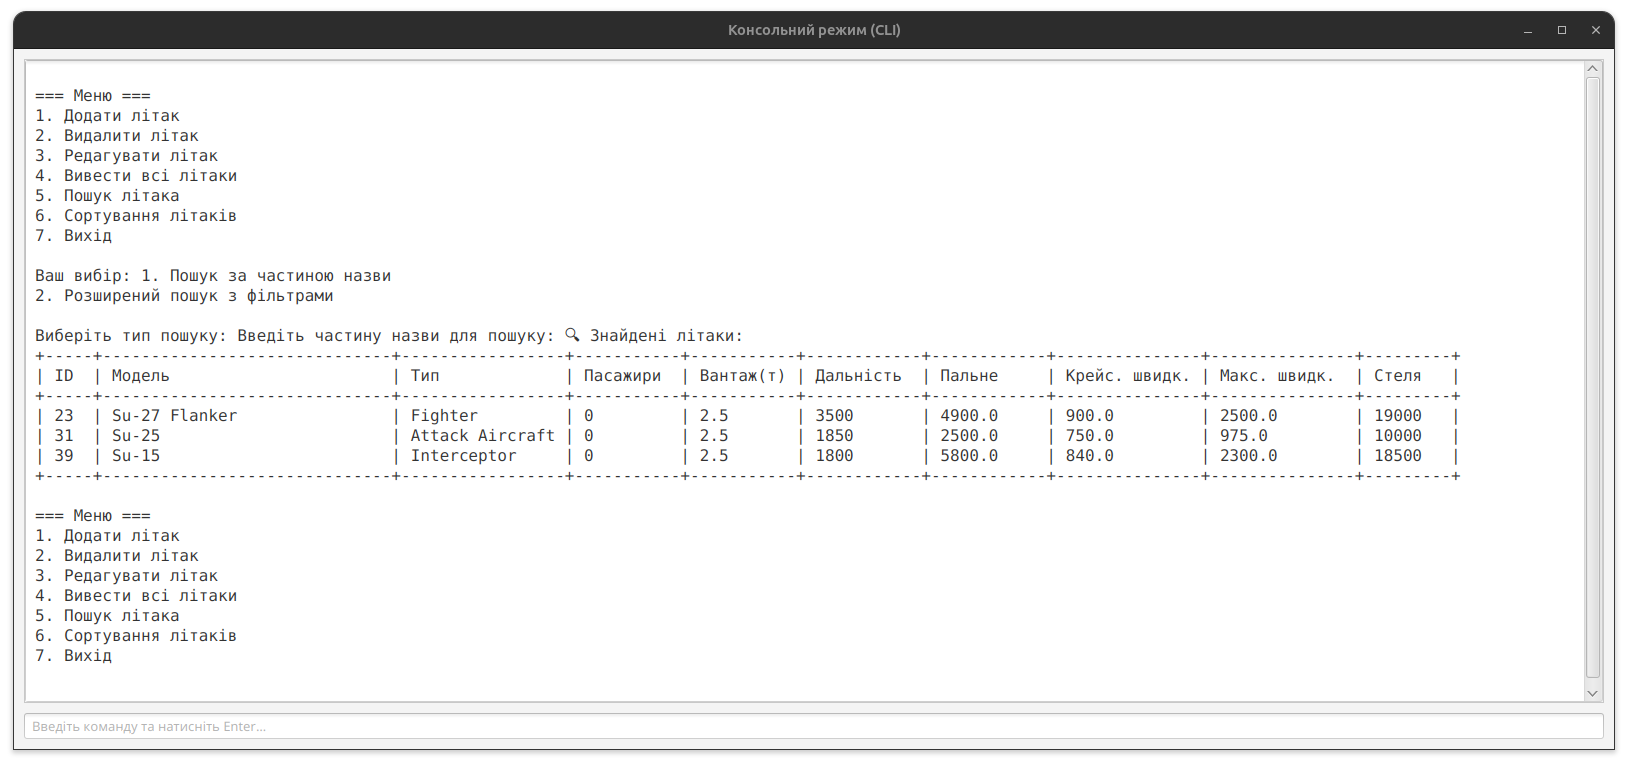
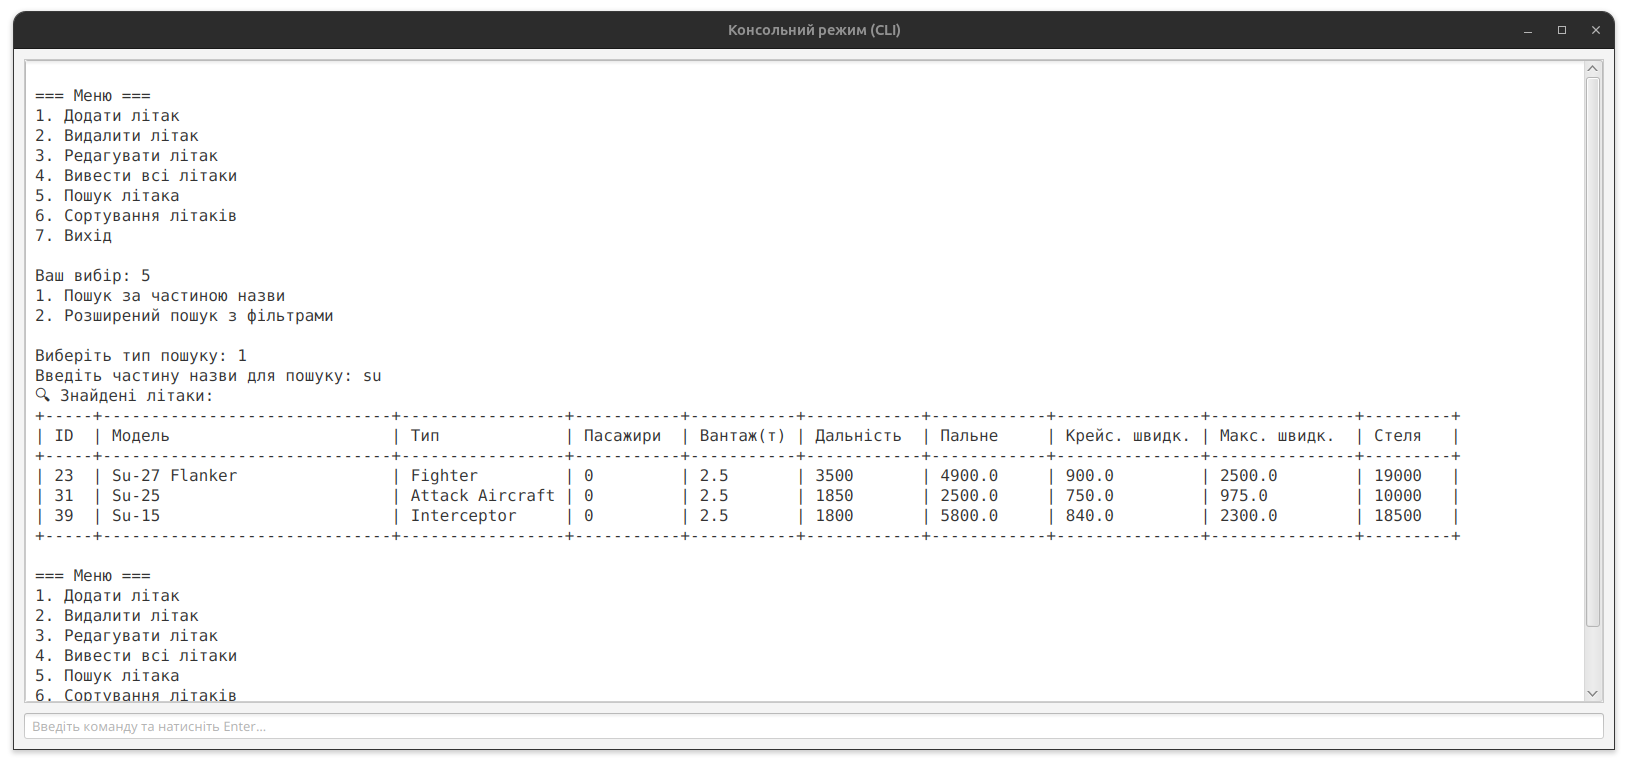
cli bug fix

Changed region(s): [[0.0, 0.3303, 0.6143, 0.9308], [0.645, 0.4804, 0.8907, 0.6906]]

diff --git a/src/ui/AirlineCLI.java b/src/ui/AirlineCLI.java
@@ -36,6 +36,7 @@ public class AirlineCLI {
         while (running) {
             printMenu();
             String input = scanner.nextLine();
+            printOut.println(input);
             switch (input) {
                 case "1" -> addPlane();
                 case "2" -> removePlane();
@@ -113,6 +114,7 @@ public class AirlineCLI {
             }
             printOut.print("Виберіть тип літака (введіть номер): ");
             int typeIndex = Integer.parseInt(scanner.nextLine()) - 1;
+            printOut.println(typeIndex + 1);
             if (typeIndex < 0 || typeIndex >= availableTypes.size()) {
                 printOut.println("❌ Невірний вибір типу.");
                 return;
@@ -121,27 +123,35 @@ public class AirlineCLI {
 
             printOut.print("Модель: ");
             String model = scanner.nextLine();
+            printOut.println(model);
 
             printOut.print("Кількість пасажирів: ");
             int capacity = Integer.parseInt(scanner.nextLine());
+            printOut.println(capacity);
 
             printOut.print("Вантажопідйомність (тонн): ");
             double cargoCapacity = Double.parseDouble(scanner.nextLine());
+            printOut.println(cargoCapacity);
 
             printOut.print("Дальність польоту (км): ");
             int range = Integer.parseInt(scanner.nextLine());
+            printOut.println(range);
 
             printOut.print("Споживання пального (л/год): ");
             double fuel = Double.parseDouble(scanner.nextLine());
+            printOut.println(fuel);
 
             printOut.print("Крейсерська швидкість (км/год): ");
             double cruisingSpeed = Double.parseDouble(scanner.nextLine());
+            printOut.println(cruisingSpeed);
 
             printOut.print("Максимальна швидкість (км/год): ");
             double maxSpeed = Double.parseDouble(scanner.nextLine());
+            printOut.println(maxSpeed);
 
             printOut.print("Стеля польоту (м): ");
             int serviceCeiling = Integer.parseInt(scanner.nextLine());
+            printOut.println(serviceCeiling);
 
             Plane plane = PlaneFactory.createPlane(
                     type.toLowerCase(),
@@ -170,6 +180,7 @@ public class AirlineCLI {
     private void removePlane() {
         printOut.print("Введіть назву (модель) літака для видалення: ");
         String model = scanner.nextLine().trim();
+        printOut.println(model);
         Integer id = airline.getPlaneIdByModel(model);
         if (id == null) {
             printOut.println("❌ Літак не знайдено.");
@@ -180,6 +191,7 @@ public class AirlineCLI {
         printPlaneTable(Collections.singletonList(found));
         printOut.print("Підтвердити видалення (y/n)? ");
         String confirm = scanner.nextLine();
+        printOut.println(confirm);
         if (confirm.equalsIgnoreCase("y")) {
             boolean ok = airline.removePlane(id);
             if (ok) printOut.println("✅ Видалено.");
@@ -197,6 +209,7 @@ public class AirlineCLI {
         try {
             printOut.print("Введіть модель літака для редагування: ");
             String model = scanner.nextLine();
+            printOut.println(model);
             Integer id = airline.getPlaneIdByModel(model);
 
             if (id == null) {
@@ -211,48 +224,56 @@ public class AirlineCLI {
 
             printOut.print("Модель [" + plane.getModel() + "]: ");
             String newModel = scanner.nextLine();
+            printOut.println(newModel);
             if (!newModel.isEmpty()) {
                 plane.setModel(newModel);
             }
 
             printOut.print("Кількість пасажирів [" + plane.getCapacity() + "]: ");
             String capInput = scanner.nextLine();
+            printOut.println(capInput);
             if (!capInput.isEmpty()) {
                 plane.setCapacity(Integer.parseInt(capInput));
             }
 
             printOut.print("Вантажопідйомність (тонн) [" + plane.getCargoCapacity() + "]: ");
             String cargoInput = scanner.nextLine();
+            printOut.println(cargoInput);
             if (!cargoInput.isEmpty()) {
                 plane.setCargoCapacity(Double.parseDouble(cargoInput));
             }
 
             printOut.print("Дальність польоту (км) [" + plane.getRange() + "]: ");
             String rangeInput = scanner.nextLine();
+            printOut.println(rangeInput);
             if (!rangeInput.isEmpty()) {
                 plane.setRange(Integer.parseInt(rangeInput));
             }
 
             printOut.print("Споживання пального (л/год) [" + plane.getFuelConsumption() + "]: ");
             String fuelInput = scanner.nextLine();
+            printOut.println(fuelInput);
             if (!fuelInput.isEmpty()) {
                 plane.setFuelConsumption(Double.parseDouble(fuelInput));
             }
 
             printOut.print("Крейсерська швидкість (км/год) [" + plane.getCruisingSpeed() + "]: ");
             String cruisingInput = scanner.nextLine();
+            printOut.println(cruisingInput);
             if (!cruisingInput.isEmpty()) {
                 plane.setCruisingSpeed(Double.parseDouble(cruisingInput));
             }
 
             printOut.print("Максимальна швидкість (км/год) [" + plane.getMaxSpeed() + "]: ");
             String maxSpeedInput = scanner.nextLine();
+            printOut.println(maxSpeedInput);
             if (!maxSpeedInput.isEmpty()) {
                 plane.setMaxSpeed(Double.parseDouble(maxSpeedInput));
             }
 
             printOut.print("Стеля польоту (м) [" + plane.getServiceCeiling() + "]: ");
             String ceilingInput = scanner.nextLine();
+            printOut.println(ceilingInput);
             if (!ceilingInput.isEmpty()) {
                 plane.setServiceCeiling(Integer.parseInt(ceilingInput));
             }
@@ -283,6 +304,7 @@ public class AirlineCLI {
                 """);
         printOut.print("Виберіть тип пошуку: ");
         String choice = scanner.nextLine();
+        printOut.println(choice);
         if (choice.equals("1")) {
             simpleSearch();
         } else if (choice.equals("2")) {
@@ -298,6 +320,7 @@ public class AirlineCLI {
     private void simpleSearch() {
         printOut.print("Введіть частину назви для пошуку: ");
         String keyword = scanner.nextLine().toLowerCase();
+        printOut.println(keyword);
 
         List<Plane> found = airline.getPlanes().stream()
                 .filter(p -> p.getModel().toLowerCase().contains(keyword))
@@ -321,48 +344,63 @@ public class AirlineCLI {
 
             printOut.print("Частина моделі (або залиште порожнім): ");
             String keyword = scanner.nextLine().trim().toLowerCase();
+            printOut.println(keyword);
 
             printOut.print("Мін. пасажирів (або -1): ");
             int minCap = Integer.parseInt(scanner.nextLine());
+            printOut.println(minCap);
 
             printOut.print("Макс. пасажирів (або -1): ");
             int maxCap = Integer.parseInt(scanner.nextLine());
+            printOut.println(maxCap);
 
             printOut.print("Мін. вантажопідйомність (або -1): ");
             double minCargo = Double.parseDouble(scanner.nextLine());
+            printOut.println(minCargo);
 
             printOut.print("Макс. вантажопідйомність (або -1): ");
             double maxCargo = Double.parseDouble(scanner.nextLine());
+            printOut.println(maxCargo);
 
             printOut.print("Мін. дальність (або -1): ");
             int minRange = Integer.parseInt(scanner.nextLine());
+            printOut.println(minRange);
 
             printOut.print("Макс. дальність (або -1): ");
             int maxRange = Integer.parseInt(scanner.nextLine());
+            printOut.println(maxRange);
 
             printOut.print("Мін. споживання пального (або -1): ");
             double minFuel = Double.parseDouble(scanner.nextLine());
+            printOut.println(minFuel);
 
             printOut.print("Макс. споживання пального (або -1): ");
             double maxFuel = Double.parseDouble(scanner.nextLine());
+            printOut.println(maxFuel);
 
             printOut.print("Мін. крейсерська швидкість (або -1): ");
             double minCruisingSpeed = Double.parseDouble(scanner.nextLine());
+            printOut.println(minCruisingSpeed);
 
             printOut.print("Макс. крейсерська швидкість (або -1): ");
             double maxCruisingSpeed = Double.parseDouble(scanner.nextLine());
+            printOut.println(maxCruisingSpeed);
 
             printOut.print("Мін. максимальна швидкість (або -1): ");
             double minMaxSpeed = Double.parseDouble(scanner.nextLine());
+            printOut.println(minMaxSpeed);
 
             printOut.print("Макс. максимальна швидкість (або -1): ");
             double maxMaxSpeed = Double.parseDouble(scanner.nextLine());
+            printOut.println(maxMaxSpeed);
 
             printOut.print("Мін. стеля (або -1): ");
             int minCeiling = Integer.parseInt(scanner.nextLine());
+            printOut.println(minCeiling);
 
             printOut.print("Макс. стеля (або -1): ");
             int maxCeiling = Integer.parseInt(scanner.nextLine());
+            printOut.println(maxCeiling);
 
             List<String> availableTypes = PlaneFactory.getAvailableTypes();
             printOut.println("Виберіть типи літаків (через пробіл, або залиште порожнім для всіх):");
@@ -371,6 +409,7 @@ public class AirlineCLI {
             }
             printOut.print("Ваш вибір (наприклад: 1 3 6): ");
             String typesInput = scanner.nextLine().trim();
+            printOut.println(typesInput);
 
             final Set<String> selectedTypes = new HashSet<>();
 
@@ -437,12 +476,14 @@ public class AirlineCLI {
                 """);
         printOut.print("Ваш вибір: ");
         String choice = scanner.nextLine();
+        printOut.println(choice);
 
         printOut.println("Порядок сортування:");
         printOut.println("1. За зростанням");
         printOut.println("2. За спаданням");
         printOut.print("Ваш вибір: ");
         String orderChoice = scanner.nextLine();
+        printOut.println(orderChoice);
         boolean ascending = orderChoice.equals("1");
 
         List<Plane> sorted = new ArrayList<>(airline.getPlanes());

diff --git a/src/airline/util/PlaneFactory.java b/src/airline/util/PlaneFactory.java
@@ -1,4 +1,3 @@
-// Файл: airline/util/PlaneFactory.java
 package airline.util;
 
 import airline.*;
@@ -6,13 +5,36 @@ import airline.*;
 import java.util.Collections;
 import java.util.List;
 
+/**
+ * Factory class for creating {@link Plane} instances of different types.
+ * Provides methods to instantiate planes based on a type string and retrieve the list of supported plane types.
+ */
 public class PlaneFactory {
 
+    /**
+     * List of available plane types supported by the factory.
+     */
     private static final List<String> availableTypes = List.of(
             "Passenger", "Cargo", "Business Jet", "Light Plane",
             "Fighter", "Bomber", "Attack Aircraft", "Interceptor"
     );
 
+
+    /**
+     * Creates a new {@link Plane} object of the specified type with the provided parameters.
+     *
+     * @param type            the type of plane (e.g., "Passenger", "Cargo", etc.)
+     * @param model           the model name of the plane
+     * @param capacity        the number of passengers (if applicable)
+     * @param cargoCapacity   the cargo capacity in tons
+     * @param range           the flight range in kilometers
+     * @param fuelConsumption the fuel consumption in liters per hour
+     * @param cruisingSpeed   the typical cruising speed in km/h
+     * @param maxSpeed        the maximum speed in km/h
+     * @param serviceCeiling  the service ceiling in meters
+     * @return a new instance of {@link Plane} corresponding to the specified type
+     * @throws IllegalArgumentException if the type is unknown
+     */
     public static Plane createPlane(
             String type, String model,
             int capacity, double cargoCapacity,
@@ -20,14 +42,22 @@ public class PlaneFactory {
             double cruisingSpeed, double maxSpeed, int serviceCeiling
     ) {
         Plane plane = switch (type.toLowerCase()) {
-            case "passenger" -> new PassengerPlane(model, capacity, cargoCapacity, range, fuelConsumption, cruisingSpeed, maxSpeed, serviceCeiling);
-            case "cargo" -> new CargoPlane(model, cargoCapacity, range, fuelConsumption, cruisingSpeed, maxSpeed, serviceCeiling);
-            case "business jet" -> new BusinessJet(model, capacity, cargoCapacity, range, fuelConsumption, cruisingSpeed, maxSpeed, serviceCeiling);
-            case "light plane" -> new LightPlane(model, capacity, cargoCapacity, range, fuelConsumption, cruisingSpeed, maxSpeed, serviceCeiling);
-            case "fighter" -> new Fighter(model, cargoCapacity, range, fuelConsumption, cruisingSpeed, maxSpeed, serviceCeiling);
-            case "bomber" -> new Bomber(model, cargoCapacity, range, fuelConsumption, cruisingSpeed, maxSpeed, serviceCeiling);
-            case "attack aircraft" -> new AttackAircraft(model, cargoCapacity, range, fuelConsumption, cruisingSpeed, maxSpeed, serviceCeiling);
-            case "interceptor" -> new Interceptor(model, cargoCapacity, range, fuelConsumption, cruisingSpeed, maxSpeed, serviceCeiling);
+            case "passenger" ->
+                    new PassengerPlane(model, capacity, cargoCapacity, range, fuelConsumption, cruisingSpeed, maxSpeed, serviceCeiling);
+            case "cargo" ->
+                    new CargoPlane(model, cargoCapacity, range, fuelConsumption, cruisingSpeed, maxSpeed, serviceCeiling);
+            case "business jet" ->
+                    new BusinessJet(model, capacity, cargoCapacity, range, fuelConsumption, cruisingSpeed, maxSpeed, serviceCeiling);
+            case "light plane" ->
+                    new LightPlane(model, capacity, cargoCapacity, range, fuelConsumption, cruisingSpeed, maxSpeed, serviceCeiling);
+            case "fighter" ->
+                    new Fighter(model, cargoCapacity, range, fuelConsumption, cruisingSpeed, maxSpeed, serviceCeiling);
+            case "bomber" ->
+                    new Bomber(model, cargoCapacity, range, fuelConsumption, cruisingSpeed, maxSpeed, serviceCeiling);
+            case "attack aircraft" ->
+                    new AttackAircraft(model, cargoCapacity, range, fuelConsumption, cruisingSpeed, maxSpeed, serviceCeiling);
+            case "interceptor" ->
+                    new Interceptor(model, cargoCapacity, range, fuelConsumption, cruisingSpeed, maxSpeed, serviceCeiling);
             default -> throw new IllegalArgumentException("Невідомий тип літака: " + type);
         };
 
@@ -35,6 +65,12 @@ public class PlaneFactory {
         return plane;
     }
 
+
+    /**
+     * Returns an unmodifiable list of available plane types.
+     *
+     * @return list of supported plane type names
+     */
     public static List<String> getAvailableTypes() {
         return Collections.unmodifiableList(availableTypes);
     }

diff --git a/src/ui/CLIWindow.java b/src/ui/CLIWindow.java
@@ -73,6 +73,9 @@ public class CLIWindow {
             return;
         }
 
+        // Make inputField initially disabled (will be enabled by first CLI output)
+        inputField.setDisable(true);
+
         // Redirect CLI output to the GUI TextArea
         PrintStream printOut = new PrintStream(new OutputStream() {
             private final ByteArrayOutputStream buffer = new ByteArrayOutputStream();
@@ -82,7 +85,11 @@ public class CLIWindow {
                 buffer.write(b);
                 if (b == '\n') {
                     String text = buffer.toString(StandardCharsets.UTF_8);
-                    Platform.runLater(() -> logArea.appendText(text));
+                    Platform.runLater(() -> {
+                        logArea.appendText(text);
+                        inputField.setDisable(false); // unblock after output
+                        inputField.requestFocus(); // set focus to right place
+                    });
                     buffer.reset();
                 }
             }
@@ -102,12 +109,18 @@ public class CLIWindow {
 
         // Send user input to the CLI when Enter is pressed
         inputField.setOnAction(e -> {
+            if (inputField.isDisabled()) {
+                // block if it's not time yet
+                return;
+            }
             String cmd = inputField.getText();
+            inputField.setDisable(true); // block until next output
             try {
                 pipedOut.write((cmd + "\n").getBytes(StandardCharsets.UTF_8));
                 pipedOut.flush();
             } catch (IOException ex) {
                 logArea.appendText("Помилка відправки команди\n");
+                inputField.setDisable(false); // if error - unblock
             }
             inputField.clear();
         });
